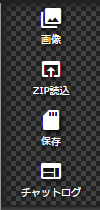
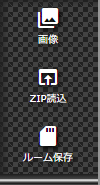
ヘルプ整備

diff --git a/src/app/component/help/help-menu/help-menu.component.html b/src/app/component/help/help-menu/help-menu.component.html
@@ -8,8 +8,7 @@
       <ul>
         <li>画像：画像のアップロード、設定、削除を行います</li>
         <li>ZIP読み込み：保存したZIPファイルを読み込ませます</li>
-        <li>保存：ルームデータ全てをローカルに保存します</li>
-        <li>チャットログ：全てのチャットタブのログをタブごとに保存します</li>
+        <li>ルーム保存：ルームデータ全てをローカルに保存します</li>
       </ul>
     </div>
   </div>
@@ -29,6 +28,32 @@
       </ul>
     </div>
   </div>
+  <div class="title">チャット</div>
+  <div class="section">
+    <div class="image">
+      <img src="./assets/help/menu-chat.png">
+    </div>
+    <div class="description">
+      <ul>
+        <li>チャットウィンドウ：チャットウィンドウを新たに表示します</li>
+        <li>パレットバインダー：チャットパレットを表示します</li>
+        <li>チャットログ：全てのチャットタブのログをタブごとに保存します</li>
+     </ul>
+    </div>
+  </div>
+  <div class="title">リスト</div>
+  <div class="section">
+    <div class="image">
+      <img src="./assets/help/menu-data.png">
+    </div>
+    <div class="description">
+      <ul>
+        <li>インベントリ：キャラクターインベントリを表示します</li>
+        <li>イニシアティブリスト：イニシアティブリストを表示します</li>
+        <li>配布カウンター一覧：カウンター一覧を表示します</li>
+     </ul>
+    </div>
+  </div>
   <div class="title">機能</div>
   <div class="section">
     <div class="image">
@@ -36,10 +61,7 @@
     </div>
     <div class="description">
       <ul>
-        <li>チャット画面：チャットウィンドウを新たに表示します</li>
-        <li>インベントリ：キャラクターインベントリを表示します</li>
-        <li>パレットバインダー：チャットパレットを表示します</li>
-        <li>カウンターリスト：ゲームキャラクターにカウンターを配布します</li>
+        <li>カウンター設定：ゲームキャラクターにカウンターを配布します</li>
         <li>ダイスボット表：カスタムダイスボット表を設定します</li>
         <li>カットイン：カットインを設定します</li>
         <li>エフェクト：ゲームキャラクターに３Dエフェクトを表示します</li>
@@ -52,28 +74,28 @@
       <img src="./assets/help/menu-view.png">
     </div>
     <div class="description">
-      パネル設定<br>
+      パネル<br>
       <ul>
         <li>全てのパネルを消去：チャットウィンドウを新たに表示します</li>
       </ul>
-     視点設定(３Dモード限定)
+     視点(３Dモード限定)
       <ul>
         <li>初期視点に戻す：視点を初期に戻します</li>
         <li>真上から見る：視点をテーブルの真上に移動します</li>
       </ul>
-      立ち絵設定
+      立ち絵
       <ul>
         <li>立ち絵表示設定：立ち絵の表示位置の確認、表示範囲の設定ができます</li>
+        <li>立ち絵全消去：表示中の立ち絵を全て消します</li>
         <li>立ち絵表示：立ち絵表示のON/OFFを切り替えます</li>
         <li>ネームタグ表示：立ち絵表示時のネームタグのON/OFFを切り替えます</li>
         <li>透明化、自動退去：立ち絵が発言後、自動的に消滅するかどうかを切り替えます</li>
-        <li>表示中の立ち絵全消去：表示中の立ち絵を全て消します</li>
      </ul>
-     キャラクター設定<br>
+     キャラクター<br>
      <ul>
        <li>ステータスバー表示：ステータスバー表示のON/OFFを切り替えます</li>
      </ul>
-     エフェクト設定<br>
+     エフェクト<br>
      <ul>
        <li>エフェクト表示：エフェクト表示のON/OFFを切り替えます</li>
      </ul>

diff --git a/src/app/component/help/help.component.html b/src/app/component/help/help.component.html
@@ -57,43 +57,43 @@
 <div class="help">
   <ng-container [ngSwitch]="menu">
      <ng-container *ngSwitchCase="'main'">
-      <help-main class="content"></help-main>  
+      <help-main class="main-content"></help-main>
      </ng-container>
      <ng-container *ngSwitchCase="'menu'">
-      <help-menu class="content"></help-menu>  
+      <help-menu class="main-content"></help-menu>
      </ng-container>
      <ng-container *ngSwitchCase="'room'">
-      <help-room class="content"></help-room>  
+      <help-room class="main-content"></help-room>
      </ng-container>
      <ng-container *ngSwitchCase="'chat'">
-      <help-chat class="content"></help-chat>  
+      <help-chat class="main-content"></help-chat>
      </ng-container>
      <ng-container *ngSwitchCase="'character'">
-      <help-character class="content"></help-character>  
+      <help-character class="main-content"></help-character>
      </ng-container>
      <ng-container *ngSwitchCase="'popup'">
-      <help-popup class="content"></help-popup>  
+      <help-popup class="main-content"></help-popup>
      </ng-container>
      <ng-container *ngSwitchCase="'object'">
-      <help-object class="content"></help-object>  
+      <help-object class="main-content"></help-object>
      </ng-container>
      <ng-container *ngSwitchCase="'stand'">
-      <help-stand class="content"></help-stand>  
+      <help-stand class="main-content"></help-stand>
      </ng-container>
      <ng-container *ngSwitchCase="'counter'">
-      <help-counter class="content"></help-counter>  
+      <help-counter class="main-content"></help-counter>
      </ng-container>
      <ng-container *ngSwitchCase="'board'">
-      <help-board class="content"></help-board>  
+      <help-board class="main-content"></help-board>
      </ng-container>
      <ng-container *ngSwitchCase="'cutin'">
-      <help-cutin class="content"></help-cutin>  
+      <help-cutin class="main-content"></help-cutin>
      </ng-container>
      <ng-container *ngSwitchCase="'diceroll'">
-      <help-diceroll class="content"></help-diceroll>  
+      <help-diceroll class="main-content"></help-diceroll>
      </ng-container>
      <ng-container *ngSwitchCase="'image'">
-      <help-image class="content"></help-image>  
+      <help-image class="main-content"></help-image>
      </ng-container>
-  </ng-container> 
+  </ng-container>
 </div>

diff --git a/src/app/component/help/help.component.css b/src/app/component/help/help.component.css
@@ -1,13 +1,17 @@
 .menu {
   display: flex;
   height: 50px;
-  font-size: 14px;
-  flex-direction: row;
+  box-sizing: border-box;
+  font-size: 16px;
   flex-wrap: nowrap;
   overflow-x: scroll;
 }
 
 .menu form {
+  display: flex;
+  height: 100%;
+  flex-direction: row;
+  align-items: flex-end;
   white-space: nowrap;
 }
 
@@ -22,28 +26,37 @@
 
 .menu input[type="radio"] + div {
   display: inline-block;
-  vertical-align: middle;
+  vertical-align: bottom;
   outline: 0;
-  background-color: #777;
-  border: solid 2px #222;
-  padding-top : 0px;
+  background-color: #BBB;
+  border: solid 1px #444;
+  border-top-right-radius: 6px;
+  border-top-left-radius: 6px;
+  box-shadow:1px 1px 3px 0px #FFF inset,
+  0px -1px 3px 0px #000 inset;
+  font-weight: bolder;
+  color: #444;
+  padding: 4px 12px;
+  padding-bottom : 2px;
   margin-top : 0px;
-  padding: 2px 8px;
-  border-bottom-right-radius: 6px;
-  border-bottom-left-radius: 6px; 
   cursor: pointer;
 }
 
 .menu input[type="radio"] + div:hover {
-  background-color: #AAA;
-  color: #000;
+  background-color: #999;
+  border: solid 2px #444;
+  border-bottom: none;
+  box-shadow:1px 1px 3px 0px #DDD inset;
+  color: #222;
 }
 
 .menu input[type="radio"]:checked + div {
-  border-top: none;
+  border: solid 2px #222;
   font-weight: bold;
-  background: #CCC;
-  color: #222;
+  border-bottom: none;
+  box-shadow:1px 1px 3px 0px #DDD inset;
+  background: #666;
+  color: #FFF;
 }
 
 .menu::-webkit-scrollbar {
@@ -60,10 +73,12 @@
 
 .help {
   width:100%;
-  height:calc(100% - 50px);
+  box-sizing: border-box;
+  border: solid 1px #222;
+  background-color: #444;
 }
 
-.content {
+.main-content {
   width:100%;
   height:100%;
   padding: 0;

diff --git a/src/app/component/help/help-menu/help-menu.component.css b/src/app/component/help/help-menu/help-menu.component.css
@@ -1,7 +1,7 @@
 .container {
   width: 100%;
   display:flex;
-  flex-flow: column nowrap; 
+  flex-flow: column nowrap;
   justify-content: flex-start;
 }
 
@@ -16,11 +16,11 @@
 .section {
   width: 100%;
   display:flex;
-  flex-flow: row nowrap; 
+  flex-flow: row nowrap;
 }
 
 .image {
-  width: 160px;
+  width: 200px;
 }
 
 .description {

diff --git a/src/app/component/help/help-main/help-main.component.css b/src/app/component/help/help-main/help-main.component.css
@@ -1,5 +1,6 @@
 .content {
   font-size:12px;
+  border: solid 1px #111;
 }
 
 .title {
